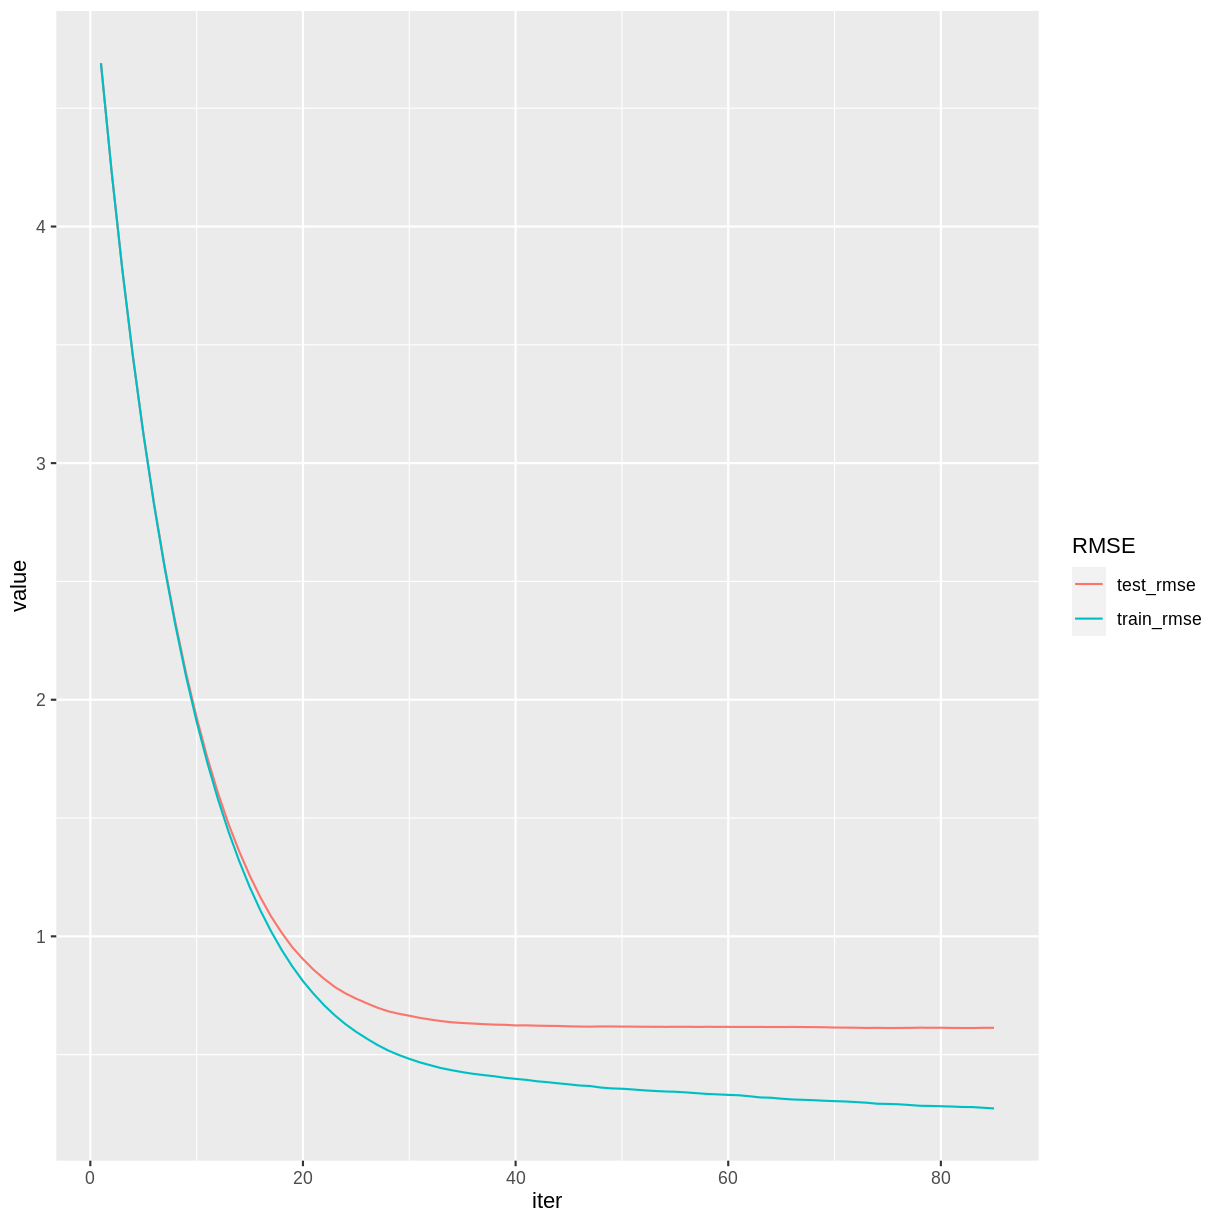
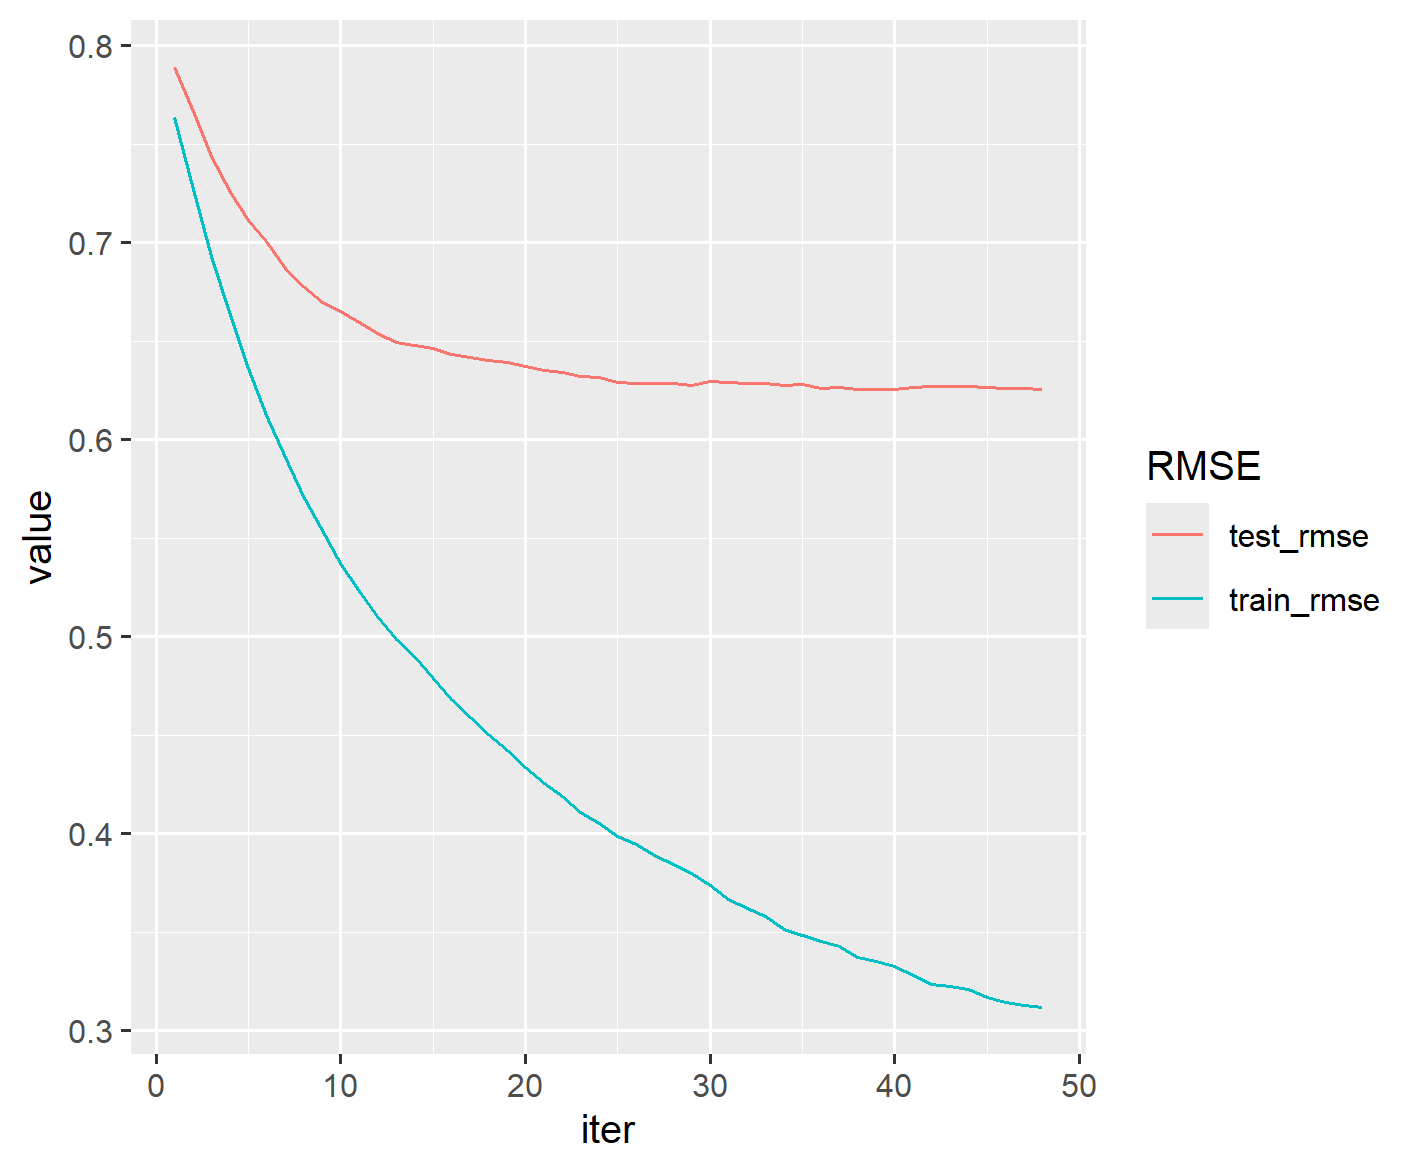
Update episodes 5 and 6

diff --git a/episodes/5-gradient-boosted-trees.md b/episodes/5-gradient-boosted-trees.md
@@ -73,7 +73,7 @@ sqrt(mean(errors^2)) #RMSE
 ```
 
 ```output
-[1] 0.6653935
+[1] 0.6561705
 ```
 
 ## More Details on the Training Process
@@ -85,26 +85,26 @@ redwineXGB <- xgb.train(data = dtrain, watchlist = list(test = dtest), nrounds =
 ```
 
 ```output
-[1]	test-rmse:3.676492 
-[2]	test-rmse:2.620643 
-[3]	test-rmse:1.904736 
-[4]	test-rmse:1.414777 
-[5]	test-rmse:1.110905 
-[6]	test-rmse:0.913236 
-[7]	test-rmse:0.793578 
-[8]	test-rmse:0.729415 
-[9]	test-rmse:0.686777 
-[10]	test-rmse:0.665393 
+[1]	test-rmse:0.739547 
+[2]	test-rmse:0.697529 
+[3]	test-rmse:0.677260 
+[4]	test-rmse:0.666461 
+[5]	test-rmse:0.663789 
+[6]	test-rmse:0.661025 
+[7]	test-rmse:0.656802 
+[8]	test-rmse:0.657357 
+[9]	test-rmse:0.656321 
+[10]	test-rmse:0.656171 
 ```
 
-The training history is saved as a data frame in the variable `gbm$evaluation_log`, so we can plot how the RMSE changes during the training process.
+The training history is saved as a data frame in the attribute `evaluation_log`, so we can plot how the RMSE changes during the training process.
 
 ```r
-redwineXGB$evaluation_log |>
+attr(redwineXGB, "evaluation_log") |>
   ggplot(aes(x = iter, y = test_rmse)) +
   geom_line()
 ```
-![]()fig/5-rmse-line-plot.png){alt="line plot of test rmse by iteration"}
+![](fig/5-rmse-line-plot.png){alt="line plot of test rmse by iteration"}
 
 ::::::::::::::::::::::::::::::::::::: challenge
 
@@ -124,35 +124,35 @@ redwineXGB <- xgb.train(data = dtrain,
 ```
 
 ```output
-[1]	test-rmse:3.676492 
-[2]	test-rmse:2.620643 
-[3]	test-rmse:1.904736 
-[4]	test-rmse:1.414777 
-[5]	test-rmse:1.110905 
-[6]	test-rmse:0.913236 
-[7]	test-rmse:0.793578 
-[8]	test-rmse:0.729415 
-[9]	test-rmse:0.686777 
-[10]	test-rmse:0.665393 
-[11]	test-rmse:0.650133 
-[12]	test-rmse:0.642655 
-[13]	test-rmse:0.640231 
-[14]	test-rmse:0.634134 
-[15]	test-rmse:0.637910 
-[16]	test-rmse:0.636140 
-[17]	test-rmse:0.640103 
-[18]	test-rmse:0.640305 
-[19]	test-rmse:0.640569 
-[20]	test-rmse:0.637183 
+[1]	test-rmse:0.739547 
+[2]	test-rmse:0.697529 
+[3]	test-rmse:0.677260 
+[4]	test-rmse:0.666461 
+[5]	test-rmse:0.663789 
+[6]	test-rmse:0.661025 
+[7]	test-rmse:0.656802 
+[8]	test-rmse:0.657357 
+[9]	test-rmse:0.656321 
+[10]	test-rmse:0.656171 
+[11]	test-rmse:0.654021 
+[12]	test-rmse:0.651006 
+[13]	test-rmse:0.650065 
+[14]	test-rmse:0.650734 
+[15]	test-rmse:0.650865 
+[16]	test-rmse:0.651042 
+[17]	test-rmse:0.650033 
+[18]	test-rmse:0.649995 
+[19]	test-rmse:0.649126 
+[20]	test-rmse:0.647756 
 ```
 
 ```r
-redwineXGB$evaluation_log |>
+attr(redwineXGB, "evaluation_log") |>
   ggplot(aes(x = iter, y = test_rmse)) +
-  geom_line() 
+  geom_line()
 ```
 
-![]()fig/5-challenge-rmse-line-plot.png){alt="line plot of test rmse by iteration"}
+![](fig/5-challenge-rmse-line-plot.png){alt="line plot of test rmse by iteration"}
 
 :::::::::::::::::::::::::::::::::
 
@@ -169,25 +169,29 @@ The following code will set `eta` to its default value. We include a value for `
 ```r
 redwineXGB <- xgb.train(data = dtrain, 
                         params = list(eta = 0.3),
-                        watchlist = list(test = dtest), 
+                        evals = list(test = dtest), 
                         nrounds = 1000,
                         early_stopping_rounds = 10,
                         print_every_n = 5)
 ```
 
 ```output
-[1]	test-rmse:3.676492 
 Will train until test_rmse hasn't improved in 10 rounds.
 
-[6]	test-rmse:0.913236 
-[11]	test-rmse:0.650133 
-[16]	test-rmse:0.636140 
-[21]	test-rmse:0.639540 
+[1]	test-rmse:0.739547 
+[6]	test-rmse:0.661025 
+[11]	test-rmse:0.654021 
+[16]	test-rmse:0.651042 
+[21]	test-rmse:0.648309 
+[26]	test-rmse:0.648100 
+[31]	test-rmse:0.650731 
 Stopping. Best iteration:
-[14]	test-rmse:0.634134
+[35]	test-rmse:0.651400
+
+[35]	test-rmse:0.651400 
 ```
 
-The 14th iteration had the smallest RMSE, as we found in the previous challenge.
+The 35th iteration had the smallest RMSE.
 
 ::::::::::::::::::::::::::::::::::::: challenge
 
@@ -204,23 +208,23 @@ A learning rate around 0.1 reduces the RMSE somewhat.
 ```r
 redwineXGB <- xgb.train(data = dtrain, 
                         params = list(eta = 0.1),
-                        watchlist = list(test = dtest), 
+                        evals = list(test = dtest), 
                         nrounds = 1000,
                         early_stopping_rounds = 10,
                         print_every_n = 15)
 ```
 
 ```output
-[1]	test-rmse:4.689984 
 Will train until test_rmse hasn't improved in 10 rounds.
 
-[16]	test-rmse:1.164598 
-[31]	test-rmse:0.655252 
-[46]	test-rmse:0.618707 
-[61]	test-rmse:0.617009 
-[76]	test-rmse:0.612820 
+[1]	test-rmse:0.789059 
+[16]	test-rmse:0.643070 
+[31]	test-rmse:0.629120 
+[46]	test-rmse:0.625930 
 Stopping. Best iteration:
-[75]	test-rmse:0.612406
+[48]	test-rmse:0.625455
+
+[48]	test-rmse:0.625455 
 ```
 :::::::::::::::::::::::::::::::::
 
@@ -236,17 +240,18 @@ xgb.importance(model = redwineXGB)
 
 ```output
                  Feature       Gain      Cover  Frequency
- 1:              alcohol 0.33236129 0.11264259 0.07936508
- 2:     volatile.acidity 0.12367170 0.09820458 0.11922399
- 3:            sulphates 0.10975935 0.10726694 0.08218695
- 4: total.sulfur.dioxide 0.07500529 0.13655797 0.09276896
- 5:              density 0.05960668 0.09451465 0.08500882
- 6:            chlorides 0.05883225 0.10318293 0.09805996
- 7:       residual.sugar 0.05499778 0.09106117 0.08818342
- 8:        fixed.acidity 0.05087633 0.07920964 0.14250441
- 9:                   pH 0.04772447 0.06078573 0.06807760
-10:          citric.acid 0.04532904 0.07698668 0.07830688
-11:  free.sulfur.dioxide 0.04183582 0.03958713 0.06631393
+                  <char>      <num>      <num>      <num>
+ 1:              alcohol 0.30854145 0.20533266 0.08665431
+ 2:     volatile.acidity 0.14497002 0.12210243 0.10889713
+ 3:            sulphates 0.12760406 0.13532236 0.08711770
+ 4: total.sulfur.dioxide 0.08528885 0.10227935 0.09360519
+ 5:        fixed.acidity 0.06277324 0.06687905 0.14365153
+ 6:            chlorides 0.05994638 0.08001722 0.09592215
+ 7:              density 0.04635801 0.06776201 0.07599629
+ 8:       residual.sugar 0.04470028 0.06218626 0.09267841
+ 9:          citric.acid 0.04053801 0.06268225 0.08109361
+10:                   pH 0.04017616 0.05639794 0.06672845
+11:  free.sulfur.dioxide 0.03910355 0.03903844 0.06765524
 ```
 
 The rows are sorted by `Gain`, which measures the accuracy improvement contributed by a feature based on all the splits it determines. Note that the sum of all the gains is 1.
@@ -259,36 +264,37 @@ Like many machine learning algorithms, gradient boosting operates by minimizing 
 To see both training and testing errors, we can add a `train` item to the `watchlist`.
 
 ```r
-redwineXGB <- xgb.train(data = dtrain,
+redwineXGB <- xgb.train(data = dtrain, 
                         params = list(eta = 0.1),
-                        watchlist = list(train = dtrain, test = dtest),
+                        evals = list(train = dtrain, test = dtest), 
                         nrounds = 1000,
                         early_stopping_rounds = 10,
                         print_every_n = 15)
 ```
 ```output
-[1]	train-rmse:4.690120	test-rmse:4.689984 
 Multiple eval metrics are present. Will use test_rmse for early stopping.
 Will train until test_rmse hasn't improved in 10 rounds.
 
-[16]	train-rmse:1.109302	test-rmse:1.164598 
-[31]	train-rmse:0.467275	test-rmse:0.655252 
-[46]	train-rmse:0.369513	test-rmse:0.618707 
-[61]	train-rmse:0.328256	test-rmse:0.617009 
-[76]	train-rmse:0.290210	test-rmse:0.612820 
+[1]	train-rmse:0.763413	test-rmse:0.789059 
+[16]	train-rmse:0.467861	test-rmse:0.643070 
+[31]	train-rmse:0.366838	test-rmse:0.629120 
+[46]	train-rmse:0.314553	test-rmse:0.625930 
 Stopping. Best iteration:
-[75]	train-rmse:0.291627	test-rmse:0.612406
+[48]	train-rmse:0.311647	test-rmse:0.625455
+
+[48]	train-rmse:0.311647	test-rmse:0.625455 
 ```
 
 ```r
-redwineXGB$evaluation_log |>
-  pivot_longer(cols = c(train_rmse, test_rmse), names_to = "RMSE") |>
-  ggplot(aes(x = iter, y = value, color = RMSE)) + geom_line()
+attr(redwineXGB, "evaluation_log") |>  
+  pivot_longer(cols = c(train_rmse, test_rmse), names_to = "RMSE") |> 
+  ggplot(aes(x = iter, y = value, color = RMSE)) + 
+  geom_line()
 ```
 
-![]()fig/5-test-train-rmse-line-plot.png){alt="line plot of test rmse by iteration"}
+![](fig/5-test-train-rmse-line-plot.png){alt="line plot of test rmse by iteration"}
 
-Notice that beyond iteration 40 or so, the training RMSE continues to decrease while the testing RMSE has basically stabilized. This divergence indicates that the later training iterations are improving the model based on the particularities of the training set, but in a way that does not generalize to the testing set.
+Notice that beyond iteration 20 or so, the training RMSE continues to decrease while the testing RMSE has basically stabilized. This divergence indicates that the later training iterations are improving the model based on the particularities of the training set, but in a way that does not generalize to the testing set.
 
 ## Saving a trained model
 
@@ -318,29 +324,30 @@ the random forest white wine model from the previous episode.
 :::::::::::::::::::::::: solution
 
 ```r
-whitewine <- wine |> dplyr::slice(1600:6497)
+whitewine <- wine |> dplyr::slice(1600:6497) 
 trainSize <- round(0.80 * nrow(whitewine))
-set.seed(1234)
+set.seed(1234) 
 trainIndex <- sample(nrow(whitewine), trainSize)
 trainDF <- whitewine |> dplyr::slice(trainIndex)
 testDF <- whitewine |> dplyr::slice(-trainIndex)
-dtrain <- xgb.DMatrix(data = as.matrix(select(trainDF, -quality)),
+dtrain <- xgb.DMatrix(data = as.matrix(select(trainDF, -quality)), 
                       label = trainDF$quality)
-dtest <- xgb.DMatrix(data = as.matrix(select(testDF, -quality)),
+dtest <- xgb.DMatrix(data = as.matrix(select(testDF, -quality)), 
                      label = testDF$quality)
-whitewineXGB <- xgb.train(data = dtrain,
+whitewineXGB <- xgb.train(data = dtrain, 
                           params = list(eta = 0.1),
-                          watchlist = list(train = dtrain, test = dtest),
+                          evals = list(train = dtrain, test = dtest), 
                           nrounds = 1000,
                           early_stopping_rounds = 10,
                           print_every_n = 20)
 xgb.importance(model = whitewineXGB)
-whitewineXGB$evaluation_log |>
-  pivot_longer(cols = c(train_rmse, test_rmse), names_to = "RMSE") |>
-  ggplot(aes(x = iter, y = value, color = RMSE)) + geom_line()
+attr(whitewineXGB, "evaluation_log") |> 
+  pivot_longer(cols = c(train_rmse, test_rmse), names_to = "RMSE") |> 
+  ggplot(aes(x = iter, y = value, color = RMSE)) + 
+  geom_line()
 ```
 
-The testing set RMSE (0.664) is worse than what we obtained in the
+The testing set RMSE (0.656833) is worse than what we obtained in the
 random forest model (0.63). The important explanatory variables are similar.
 
 :::::::::::::::::::::::::::::::::

diff --git a/episodes/6-cross-validation-and-fine-tuning.md b/episodes/6-cross-validation-and-fine-tuning.md
@@ -91,13 +91,16 @@ names(rwCV)
 2.
 
 ```r
-rwCV$evaluation_log |> arrange(test_rmse_mean)
+rwCV$evaluation_log |> 
+  arrange(test_rmse_mean)
 ```
 
 3.
 
 ```r
-rwCV$evaluation_log[rwCV$best_iteration]
+rwCV$evaluation_log |> 
+  arrange(test_rmse_mean) |> 
+  head(1)
 ```
 
 :::::::::::::::::::::::::::::::::